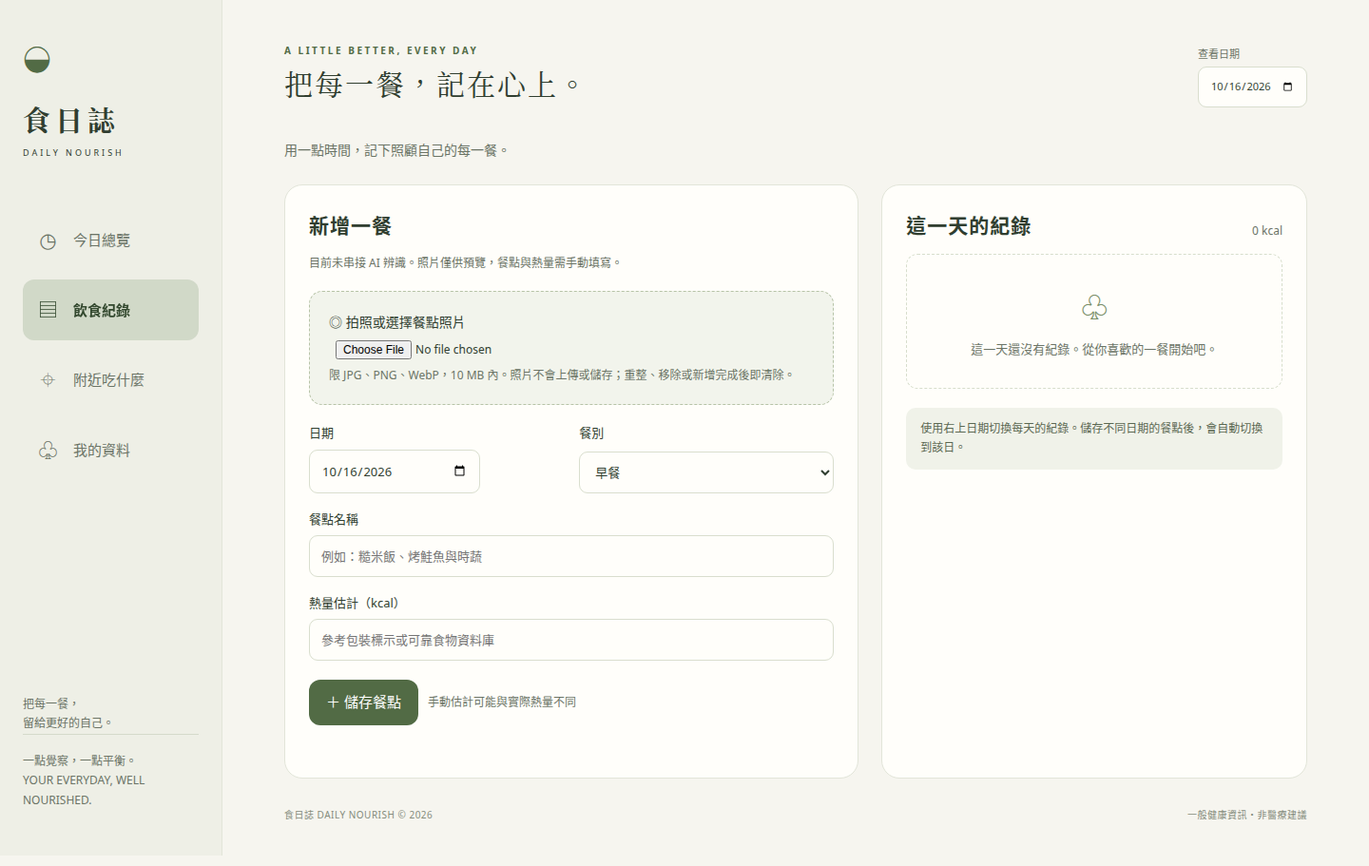
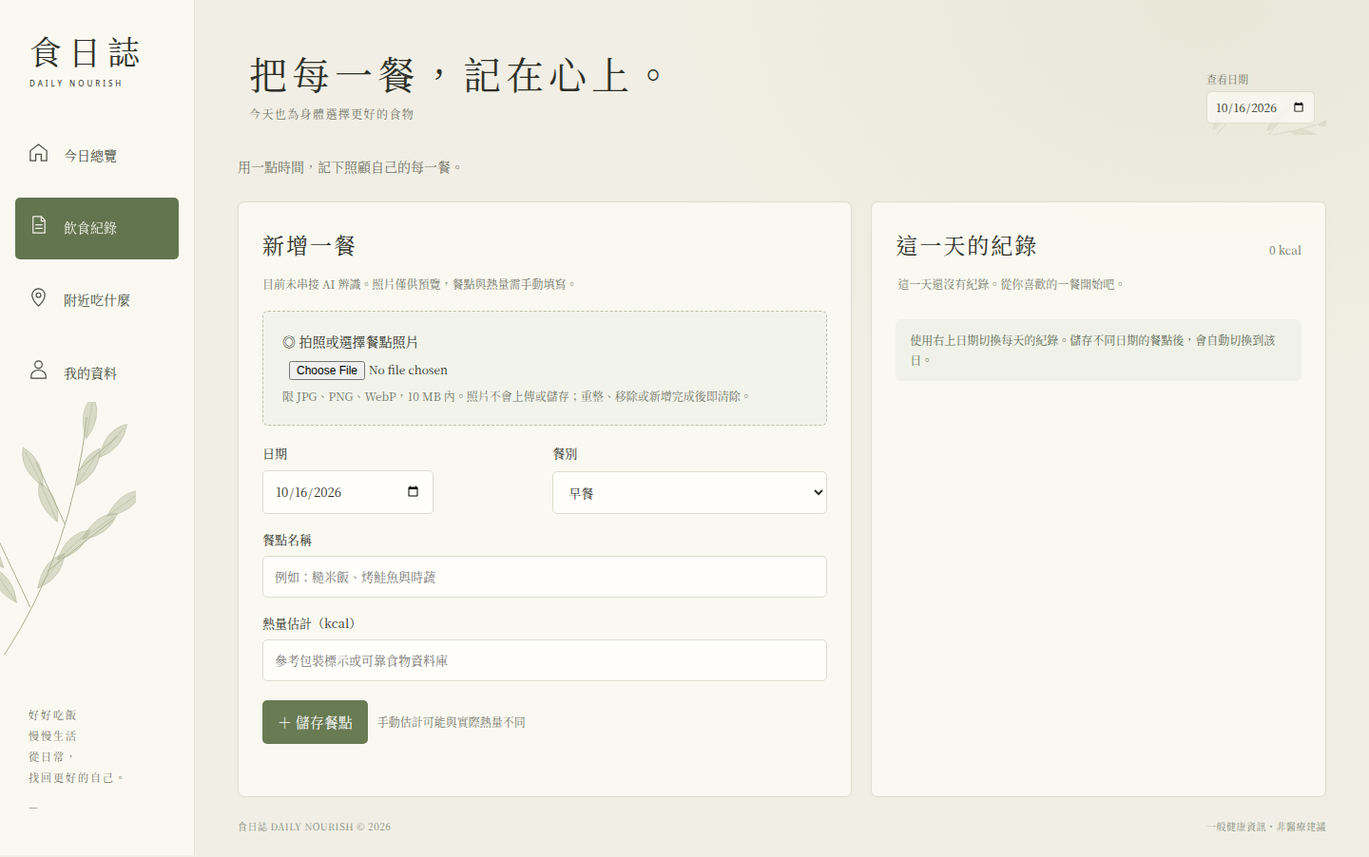
Restore concept-led editorial layout with GPT Image food assets

diff --git a/index.html b/index.html
@@ -3,11 +3,20 @@
 <style>
 :root{--paper:#f6f5ef;--card:#fffefa;--ink:#303e30;--muted:#6b7466;--sage:#dfe7d9;--green:#526b45;--line:#e2e5d9;--orange:#c27b4a}*{box-sizing:border-box}body{margin:0;background:var(--paper);color:var(--ink);font:15px/1.7 system-ui,-apple-system,"Noto Sans TC",sans-serif}button,input,select{font:inherit}button,a,input,select{ -webkit-tap-highlight-color:transparent}button{cursor:pointer}button:focus-visible,a:focus-visible,input:focus-visible,select:focus-visible{outline:3px solid #b18046;outline-offset:3px}button{border:0;border-radius:12px;padding:11px 18px;background:var(--green);color:white}button:hover{filter:brightness(.95)}.secondary{background:#edf0e6;color:var(--ink)}.danger{background:#f4e8df;color:#86482c}.side{position:fixed;inset:0 auto 0 0;width:234px;background:#eeefe6;padding:36px 24px;border-right:1px solid var(--line);display:flex;flex-direction:column}.brand{font-family:serif;font-size:29px;letter-spacing:5px;font-weight:600}.brand small{display:block;font:9px/2.5 system-ui;letter-spacing:3px}.brandmark{display:inline-block;margin-bottom:14px;color:var(--green);font-size:30px}nav{display:grid;gap:10px;margin-top:48px}nav button{text-align:left;background:transparent;color:var(--muted);padding:14px;display:flex;gap:14px;align-items:center}nav button.active{background:#dce4d3;color:#354c30;font-weight:650}nav b{font-size:21px;font-weight:400;width:25px;text-align:center}.sidefoot{margin-top:auto;font-size:12px;color:var(--muted)}.sidefoot p{border-top:1px solid #d5dacb;padding-top:18px}main{max-width:1510px;margin-left:234px;padding:36px 48px 28px}header{display:flex;justify-content:space-between;gap:16px;align-items:center;margin-bottom:30px}.eyebrow{font-size:10px;letter-spacing:2.5px;color:var(--green);font-weight:650}h1,h2,h3,p{margin-top:0}h1{font-family:serif;font-weight:500;font-size:30px;margin-bottom:3px;letter-spacing:2px}h2{font-size:21px;font-weight:550;letter-spacing:1px;margin-bottom:12px}h3{font-size:16px;font-weight:600;margin-bottom:8px}.muted{color:var(--muted)}.small{font-size:12px}.datebox{display:grid;gap:3px;font-size:11px;color:var(--muted)}input,select{width:100%;border:1px solid #d9dece;background:#fffefa;color:var(--ink);border-radius:9px;padding:10px 12px;min-width:0}input[type=date]{max-width:180px}.hero{background:#e2e8d9;border-radius:22px;min-height:265px;padding:36px 36px;position:relative;overflow:hidden;display:grid;grid-template-columns:1.15fr 1fr;align-items:center;margin-bottom:25px}.hero h2{font-family:serif;font-size:34px;line-height:1.5;font-weight:500;letter-spacing:3px;margin:12px 0}.hero p{color:#5e6d56;font-size:13px;max-width:360px}.hero svg{width:100%;max-height:245px;filter:drop-shadow(0 9px 12px #7d896324)}.hero .number{position:absolute;right:23px;top:18px;font:italic 12px serif;color:#738267}.grid{display:grid;grid-template-columns:1.35fr 1fr;gap:24px}.card{background:var(--card);border:1px solid var(--line);border-radius:19px;padding:25px}.cardhead{display:flex;justify-content:space-between;gap:10px;align-items:center}.textbtn{padding:3px 0;background:transparent;color:var(--green);font-size:12px}.energy{display:flex;gap:30px;align-items:center;margin:22px 0}.ring{width:136px;height:136px;flex-shrink:0;border:10px solid #e5eadc;border-radius:50%;display:flex;flex-direction:column;align-items:center;justify-content:center}.ring strong{font-size:30px;font-weight:500;line-height:1.3}.ring span{font-size:10px;color:var(--muted)}.stats{display:grid;gap:12px}.stats strong{font-size:23px;font-weight:500}.stats span{display:block;font-size:11px;color:var(--muted)}.note{background:#f0f2e9;border-radius:10px;padding:12px 15px;font-size:12px;color:#5b6852}.sectiontitle{display:flex;justify-content:space-between;align-items:center;margin:26px 0 14px}.sectiontitle h2{margin:0}.empty{text-align:center;padding:30px 16px;border:1px dashed #d7decc;border-radius:12px;color:var(--muted);font-size:13px}.empty .sprout{font-size:29px;display:block;color:#7a8e68;margin-bottom:8px}.meal{display:flex;gap:14px;align-items:center;padding:15px 0;border-bottom:1px solid var(--line);overflow-wrap:anywhere}.meal:last-child{border-bottom:0}.mealicon{width:42px;height:42px;display:grid;place-items:center;background:#edf0e5;border-radius:12px;flex-shrink:0;color:#6a8059}.mealbody{flex:1;min-width:0}.mealbody strong{font-weight:550}.mealbody small{display:block;color:var(--muted);font-size:11px}.meal button{background:transparent;color:#93624b;padding:8px;font-size:12px}.meal .kcal{font-size:14px;white-space:nowrap}.tip{margin-top:24px;padding-top:18px;border-top:1px solid var(--line)}.tip p{font-size:13px;color:var(--muted);margin:0}.tiplabel{color:var(--orange);font-size:10px;letter-spacing:2px}.plate{width:130px;height:130px;border:9px solid #f0eee3;border-radius:50%;margin:22px auto;background:conic-gradient(#9eaf81 0 50%,#d1b28b 50% 75%,#e7d7a9 75%);transform:rotate(-90deg);box-shadow:0 0 0 1px #e3dfd1}.legend{display:flex;gap:10px;flex-wrap:wrap;justify-content:center;font-size:11px}.legend i{display:inline-block;width:8px;height:8px;border-radius:50%;margin-right:4px}.fields{display:grid;grid-template-columns:1fr 1fr;gap:16px}.fields label,.field{display:grid;gap:6px;font-size:13px}.full{grid-column:1/-1}.formactions{display:flex;gap:10px;align-items:center;margin-top:20px;flex-wrap:wrap}.upload{border:1px dashed #b7c3a7;background:#f2f4ec;border-radius:14px;padding:20px;margin:18px 0}.upload input{padding:7px;font-size:12px;background:transparent;border:0}.upload label{display:block;font-size:14px}.preview{display:block;max-width:100%;max-height:220px;border-radius:10px;margin:15px auto;object-fit:contain}.alert{color:#8b442d;font-size:13px}.result{margin-top:22px;display:grid;grid-template-columns:1fr 1fr;gap:15px}.result>div{background:#eef1e7;padding:18px;border-radius:12px}.result strong{font-size:28px;font-weight:500;display:block}.privacy{font-size:12px;color:var(--muted);margin-top:25px;border-top:1px solid var(--line);padding-top:20px}.mapart{height:175px;position:relative;background:repeating-linear-gradient(25deg,transparent 0 40px,#fafaf3 40px 52px,transparent 52px 94px),repeating-linear-gradient(110deg,#e4e9da 0 65px,#fffef7 65px 77px,#e4e9da 77px 110px);border-radius:14px;display:grid;place-items:center;margin-bottom:22px}.pin{width:55px;height:55px;background:#526b45;color:white;border:6px solid #fffef4;border-radius:50%;display:grid;place-items:center;font-size:22px;box-shadow:0 5px 18px #526b4533}.mapart small{position:absolute;bottom:8px;right:10px;color:#5d6b55;background:#fffefa;padding:1px 8px;border-radius:5px;font-size:10px}a.maplink{display:inline-block;text-decoration:none;background:var(--green);color:white;padding:11px 18px;border-radius:12px;margin-top:18px}.checklist{padding-left:20px;font-size:14px;line-height:2}.status{font-size:12px;color:var(--green);min-height:20px;margin-top:10px}footer{color:#858c7d;font-size:10px;display:flex;justify-content:space-between;gap:12px;margin-top:30px;letter-spacing:.5px}[hidden]{display:none!important}#storageWarning{background:#f3e5d5;border:1px solid #d5b18d;border-radius:10px;padding:12px;margin-bottom:20px;font-size:13px}.pageintro{margin-bottom:24px;font-size:14px;color:var(--muted)}@media(min-width:1400px){main{padding:45px 65px}.hero{min-height:300px}}@media(max-width:1100px){main{padding:30px 26px}.side{width:200px;padding:30px 18px}main{margin-left:200px}.energy{gap:18px}.ring{width:115px;height:115px}.hero{padding:28px}.hero h2{font-size:28px}.grid{gap:18px}.card{padding:20px}}@media(max-width:800px){.side{width:100%;height:70px;inset:auto 0 0;padding:0;background:#f7f8eff5;z-index:10;border-top:1px solid var(--line);border-right:0;backdrop-filter:blur(15px)}.brand,.sidefoot{display:none}nav{margin:0;display:flex;gap:0;justify-content:space-around;height:100%}nav button{border-radius:0;flex:1;flex-direction:column;gap:0;font-size:10px;padding:8px 0}nav b{font-size:20px;line-height:1.3}main{margin:0;padding:24px 20px 95px}.grid{grid-template-columns:1fr}.hero{grid-template-columns:1.2fr 1fr;padding:24px;min-height:220px}.hero h2{font-size:26px}.hero p{font-size:12px}.hero svg{min-width:0}h1{font-size:26px}header{margin-bottom:22px}.datebox{max-width:145px}.datebox input{font-size:12px;padding:8px}.card{padding:23px}.energy{gap:30px}.ring{width:136px;height:136px}.privacy{margin-top:20px}footer{font-size:9px}.fields{gap:13px}}@media(max-width:420px){main{padding-left:16px;padding-right:16px}.hero{padding:22px;grid-template-columns:1fr}.hero svg{position:absolute;right:-35px;bottom:-15px;width:180px;opacity:.45}.hero>div{position:relative;z-index:1}.hero p{max-width:220px}.hero h2{font-size:27px}.fields{grid-template-columns:1fr}.full{grid-column:auto}.card{padding:20px}.ring{width:120px;height:120px}.energy{gap:22px}.result{gap:10px}.result strong{font-size:24px}}
 @media(max-width:600px){header{display:grid;grid-template-columns:1fr;gap:12px}header h1{font-size:25px}.datebox{display:flex;align-items:center;gap:10px;max-width:none}.datebox input{width:150px}.side{height:calc(70px + env(safe-area-inset-bottom));padding-bottom:env(safe-area-inset-bottom)}main{padding-bottom:calc(95px + env(safe-area-inset-bottom))}}
-</style></head><body>
-<aside class="side"><div class="brand"><span class="brandmark">◒</span><br>食日誌<small>DAILY NOURISH</small></div><nav aria-label="主要導覽"><button class="active" data-page="today" aria-current="page"><b aria-hidden="true">◷</b>今日總覽</button><button data-page="diary"><b aria-hidden="true">▤</b>飲食紀錄</button><button data-page="nearby"><b aria-hidden="true">⌖</b>附近吃什麼</button><button data-page="profile"><b aria-hidden="true">♧</b>我的資料</button></nav><div class="sidefoot">把每一餐，<br>留給更好的自己。<p>一點覺察，一點平衡。<br>YOUR EVERYDAY, WELL NOURISHED.</p></div></aside>
-<main><header><div><div class="eyebrow">A LITTLE BETTER, EVERY DAY</div><h1 id="pageTitle">今天，也好好吃飯。</h1></div><label class="datebox">查看日期<input type="date" id="viewDate" required aria-label="查看日期"></label></header><div id="storageWarning" role="alert" hidden></div>
-<section id="today" aria-label="今日總覽"><div class="hero"><span class="number">THE DAILY RITUAL / 01</span><div><div class="eyebrow">吃得剛好，生活更好</div><h2>照顧自己，<br>從好好吃一餐開始。</h2><p>不追求完美的數字，練習看見身體的需要。<br>為日常，留一點健康的餘裕。</p><button data-page="diary">＋ 記錄這一餐</button></div><svg viewBox="0 0 360 270" role="img" aria-label="蔬菜、全穀與蛋白質組成的均衡餐盤插畫"><defs><radialGradient id="dish"><stop stop-color="#fffdf5"/><stop offset=".8" stop-color="#faf8ef"/><stop offset="1" stop-color="#e6e5d7"/></radialGradient></defs><ellipse cx="186" cy="149" rx="116" ry="107" fill="#bdc7ad" opacity=".35"/><circle cx="180" cy="135" r="113" fill="url(#dish)"/><circle cx="180" cy="135" r="93" fill="#f0eedf" stroke="#d9dcca"/><g fill="#7d965c"><ellipse cx="130" cy="92" rx="32" ry="21" transform="rotate(-35 130 92)"/><ellipse cx="109" cy="126" rx="24" ry="35" transform="rotate(-24 109 126)"/><ellipse cx="142" cy="126" rx="27" ry="31"/><ellipse cx="119" cy="158" rx="25" ry="22"/></g><g fill="#a0b477"><ellipse cx="151" cy="76" rx="22" ry="18"/><ellipse cx="98" cy="106" rx="20" ry="18"/><ellipse cx="149" cy="152" rx="25" ry="21"/></g><g stroke="#c3d2a4" fill="none" stroke-width="2"><path d="M101 107l46 29m-21-50 21 50m-28 24 28-24"/></g><g fill="#c66e48"><circle cx="149" cy="108" r="13"/><circle cx="106" cy="151" r="12"/><circle cx="138" cy="172" r="11"/></g><g fill="#eccb98"><ellipse cx="205" cy="83" rx="22" ry="15" transform="rotate(30 205 83)"/><ellipse cx="230" cy="104" rx="24" ry="15" transform="rotate(30 230 104)"/><ellipse cx="242" cy="132" rx="23" ry="15" transform="rotate(30 242 132)"/></g><g stroke="#ba8852" stroke-width="3"><path d="M199 72l-7 15m20-9-7 16m24-3-8 17m20-10-8 17m17 6-10 18"/></g><path d="M177 154q30-19 51 5t-1 38q-44 28-63-2t13-41" fill="#dfd1ab"/><g fill="#b8a77f"><ellipse cx="181" cy="166" rx="4" ry="2"/><ellipse cx="194" cy="177" rx="4" ry="2"/><ellipse cx="215" cy="174" rx="4" ry="2"/><ellipse cx="204" cy="194" rx="4" ry="2"/><ellipse cx="178" cy="187" rx="4" ry="2"/><ellipse cx="223" cy="190" rx="4" ry="2"/></g><path d="M302 54v151m-8-151v38q8 14 16 0V54" stroke="#8c9b7b" stroke-width="5" fill="none" stroke-linecap="round"/><path d="M53 55q-20 35 0 55v96" stroke="#8c9b7b" stroke-width="6" fill="none" stroke-linecap="round"/><path d="M260 220q15-28 38-24-7 25-38 24" fill="#94a77d"/></svg></div>
-<div class="grid"><div class="card"><div class="cardhead"><h2>一日飲食概況</h2><button class="textbtn" data-page="profile">設定個人資料 ↗</button></div><div class="energy"><div class="ring"><strong id="dailyTotal">0</strong><span>已記錄 kcal</span></div><div class="stats"><div><strong id="tdeeSmall">—</strong><span>估計每日總消耗 TDEE / kcal</span></div><div><strong id="mealCount">0</strong><span>筆餐點紀錄</span></div></div></div><div class="note">這是已填寫餐點的合計，不代表全天實際攝取。熱量只是參考，不是對一餐的評分。</div><div class="sectiontitle"><h3>餐桌上的日常</h3><button class="textbtn" data-page="diary">查看紀錄 →</button></div><div id="summaryMeals"></div></div><div class="card"><span class="eyebrow">A BALANCED PLATE</span><h2>把均衡，放進餐盤裡。</h2><div class="plate" role="img" aria-label="均衡餐盤示意：二分之一蔬果，四分之一全穀，四分之一蛋白質"></div><div class="legend"><span><i style="background:#9eaf81"></i>½ 蔬菜與水果</span><span><i style="background:#d1b28b"></i>¼ 優質蛋白質</span><span><i style="background:#e7d7a9"></i>¼ 全穀雜糧</span></div><div class="tip"><span class="tiplabel">TODAY’S GENTLE REMINDER</span><h3>多一點原型，少一點匆忙。</h3><p>選擇多樣食材、適量好油與水，依需求搭配乳品或替代品。慢慢吃，也留意飢餓與飽足感。</p></div><p class="small muted" style="margin:16px 0 0">餐盤比例為一般示意，非個人化醫療處方。</p></div></div></section>
+</style><link rel="stylesheet" href="art.css"></head><body>
+<aside class="side"><div class="brand">食日誌<small>DAILY NOURISH</small></div><nav aria-label="主要導覽"><button class="active" data-page="today" aria-current="page"><b aria-hidden="true"><svg viewBox="0 0 24 26"><path d="m3 10 9-7 9 7v11h-6v-7H9v7H3z"/></svg></b>今日總覽</button><button data-page="diary"><b aria-hidden="true"><svg viewBox="0 0 24 26"><path d="M6 3h9l4 4v14H6zM15 3v5h4M9 12h7M9 16h7"/></svg></b>飲食紀錄</button><button data-page="nearby"><b aria-hidden="true"><svg viewBox="0 0 24 26"><path d="M19 10c0 5-7 12-7 12S5 15 5 10a7 7 0 1 1 14 0Z"/><circle cx="12" cy="10" r="2.5"/></svg></b>附近吃什麼</button><button data-page="profile"><b aria-hidden="true"><svg viewBox="0 0 24 26"><circle cx="12" cy="7" r="4"/><path d="M4 22v-3a8 6 0 0 1 16 0v3Z"/></svg></b>我的資料</button></nav><div class="sidefoot">好好吃飯<br>慢慢生活<br>從日常，<br>找回更好的自己。<p>—</p></div></aside>
+<main><div class="mobile-brand">食日誌<small>DAILY NOURISH</small></div><header><div><div class="eyebrow">今天也為身體選擇更好的食物</div><h1 id="pageTitle">好好吃飯，<wbr>慢慢生活。</h1></div><label class="datebox">查看日期<input type="date" id="viewDate" required aria-label="查看日期"></label></header><div id="storageWarning" role="alert" hidden></div>
+<section id="today" aria-label="今日總覽">
+<div class="overview-grid"><article class="card energy-card"><div class="cardhead"><h2>今日熱量攝取</h2><button class="textbtn" data-page="profile">設定資料 ›</button></div><div class="energy"><div class="ring"><div><strong id="dailyTotal">0</strong><span id="energyCaption">已記錄 kcal</span></div></div><div class="stats"><div><span>基礎代謝</span><strong id="bmrSmall">—</strong><small>kcal</small></div><div><span>每日所需</span><strong id="tdeeSmall">—</strong><small>kcal</small></div></div></div><p class="energy-note"><span id="mealCount">0</span> 筆紀錄 · 僅計已填寫餐點；BMR / TDEE 為估計值</p></article>
+<article class="card capture-card"><svg class="camera-icon" viewBox="0 0 40 36" aria-hidden="true"><path d="M5 8h8l3-5h9l3 5h7v24H5z"/><circle cx="20" cy="20" r="8"/></svg><h2>拍下這一餐</h2><p>記錄飲食，讓每一餐都成為更好的選擇。</p><button id="startPhoto" data-page="diary">上傳飲食照片</button><small>僅本機預覽 · 餐點與熱量手動填寫</small></article></div>
+<div class="sectiontitle"><h2>飲食紀錄</h2><span class="rule"></span><button class="textbtn" data-page="diary">查看全部 ›</button></div><div id="summaryMeals"></div>
+<div class="inspiration-label">餐桌靈感 <span>AI 生成示意・不是你的飲食紀錄</span></div><div class="food-grid">
+<article class="food-card"><img src="assets/grain-bowl.webp" alt="AI 生成示意：藜麥、半熟蛋、酪梨與蔬菜碗" width="600" height="600"><div><h3>早餐靈感</h3><p>藜麥蔬菜碗 · 水煮蛋 · 酪梨</p></div></article>
+<article class="food-card"><img src="assets/tofu.webp" alt="AI 生成示意：豆腐、季節蔬菜與糙米飯" width="600" height="600"><div><h3>午餐靈感</h3><p>板豆腐 · 季節時蔬 · 糙米</p></div></article>
+<article class="food-card"><img src="assets/chicken.webp" alt="AI 生成示意：香煎雞胸、南瓜與花椰菜" width="600" height="600"><div><h3>晚餐靈感</h3><p>香煎雞胸 · 南瓜 · 花椰菜</p></div></article>
+<article class="food-card extra-food"><img src="assets/oats.webp" alt="AI 生成示意：香蕉藍莓燕麥碗" width="600" height="600" loading="lazy"><div><h3>點心靈感</h3><p>燕麥 · 藍莓 · 香蕉與堅果</p></div></article></div>
+<div class="sectiontitle"><h2>附近吃什麼</h2><span class="rule"></span><button class="textbtn" data-page="nearby">探索附近 ›</button></div><div class="nearby-preview"><article class="nearby-choice"><span class="line-icon">⌖</span><div><h3>找一份清爽</h3><p>蔬菜、全穀與蛋白質，<br>找到喜歡的均衡搭配。</p><button class="textbtn" data-page="nearby">搜尋健康餐 ›</button></div></article><article class="nearby-choice"><span class="line-icon">♧</span><div><h3>吃一點日常</h3><p>家常便當、蔬食料理，<br>依你的位置慢慢找。</p><button class="textbtn" data-page="nearby">選擇地點與餐飲 ›</button></div></article><button class="mapart preview-map" data-page="nearby" aria-label="設定地點並搜尋真實餐廳"><span class="pin">⌖</span><small>示意地圖・非即時店家</small></button></div>
+<p class="overview-disclaimer">餐點圖片為 AI 生成靈感，不提供營養辨識；店家資訊請至 Google 地圖查詢。</p></section>
 <section id="diary" hidden aria-label="飲食紀錄"><p class="pageintro">用一點時間，記下照顧自己的每一餐。</p><div class="grid"><div class="card"><h2>新增一餐</h2><p class="small muted">目前未串接 AI 辨識。照片僅供預覽，餐點與熱量需手動填寫。</p><form id="mealForm"><div class="upload"><label for="photo">◎ 拍照或選擇餐點照片</label><input id="photo" type="file" accept="image/jpeg,image/png,image/webp" capture="environment"><img id="photoPreview" class="preview" alt="本次餐點照片預覽" hidden><button id="removePhoto" type="button" class="textbtn" hidden>移除照片</button><div class="small muted">限 JPG、PNG、WebP，10 MB 內。照片不會上傳或儲存；重整、移除或新增完成後即清除。</div><div id="photoError" class="alert" role="alert"></div></div><div class="fields"><label>日期<input type="date" id="mealDate" required></label><label>餐別<select id="mealType"><option>早餐</option><option>午餐</option><option>晚餐</option><option>點心</option></select></label><label class="full">餐點名稱<input id="mealName" maxlength="80" placeholder="例如：糙米飯、烤鮭魚與時蔬" required></label><label class="full">熱量估計（kcal）<input id="mealCalories" type="number" min="0" max="10000" step="1" placeholder="參考包裝標示或可靠食物資料庫" required></label></div><div class="formactions"><button type="submit">＋ 儲存餐點</button><span class="small muted">手動估計可能與實際熱量不同</span></div><div id="mealStatus" class="status" role="status"></div></form></div><div class="card"><div class="cardhead"><h2>這一天的紀錄</h2><span class="small muted" id="diaryTotal"></span></div><div id="diaryMeals"></div><div class="note" style="margin-top:20px">使用右上日期切換每天的紀錄。儲存不同日期的餐點後，會自動切換到該日。</div></div></div></section>
 <section id="nearby" hidden aria-label="附近吃什麼"><p class="pageintro">找一餐喜歡的，也為身體多想一點。</p><div class="grid"><div class="card"><div class="mapart" aria-hidden="true"><span class="pin">⌖</span><small>概念插畫・非即時地圖</small></div><h2>下一餐，從這裡找起。</h2><p class="small muted">本頁不提供即時店家或距離。設定條件後，前往 Google 地圖查看真實搜尋結果。</p><label class="field">想吃什麼<select id="foodType"><option value="健康餐">健康餐</option><option value="蔬食餐廳">蔬食</option><option value="自助餐">自助餐</option><option value="地中海料理">地中海料理</option><option value="便當">家常便當</option></select></label><label class="field" style="margin-top:16px">地點或區域<input id="locationText" maxlength="120" placeholder="例如：台北市大安區、台中車站"></label><div class="formactions"><button id="locate" type="button" class="secondary">⌖ 同意取得目前位置</button></div><div id="locationStatus" class="status" role="status">不會自動取得定位；也可直接輸入地點。</div><a id="mapLink" class="maplink" href="https://www.google.com/maps/search/?api=1&amp;query=%E5%81%A5%E5%BA%B7%E9%A4%90" target="_blank" rel="noopener noreferrer">前往 Google 地圖搜尋 ↗</a><p class="small muted" style="margin:14px 0 0">點擊搜尋會將地點文字或定位座標及餐飲種類傳送給 Google，適用其隱私政策。定位只用於本次搜尋，不寫入本機儲存。直接開啟 HTML 可能無法定位；正式使用需 HTTPS 與瀏覽器授權。</p></div><div class="card"><span class="eyebrow">EAT OUT, FEEL GOOD</span><h2>外食也有，剛好的選擇。</h2><ul class="checklist"><li>挑選有蔬菜、主食與蛋白質的組合。</li><li>醬汁分開放，自己決定喜歡的量。</li><li>在炸物之外，也試試蒸、烤或燉。</li><li>以水或無糖飲品搭配，慢慢享用。</li></ul><div class="note">店家菜單、營業時間與過敏原資訊，請向店家確認。搜尋結果不代表營養品質保證。</div></div></div></section>
 <section id="profile" hidden aria-label="我的資料"><p class="pageintro">認識身體的基本需要，不把自己縮成一個數字。</p><div class="grid"><div class="card"><h2>你的日常，專屬參考</h2><p class="small muted">適用 18–100 歲一般成人。孕哺期、運動員或有疾病等特殊需求者，請諮詢醫師或營養師。</p><form id="profileForm"><div class="fields"><label>年齡（歲）<input id="age" type="number" min="18" max="100" step="1" required placeholder="18–100"></label><label>公式使用的生理性別<select id="sex" required><option value="">請選擇</option><option value="male">男性（+5）</option><option value="female">女性（−161）</option></select></label><label>身高（cm）<input id="height" type="number" min="100" max="250" step="0.1" required placeholder="100–250"></label><label>體重（kg）<input id="weight" type="number" min="25" max="350" step="0.1" required placeholder="25–350"></label><label class="full">平時活動量<select id="activity"><option value="1.2">久坐為主，較少運動 × 1.2</option><option value="1.375">輕度活動，每週運動 1–3 天 × 1.375</option><option value="1.55">中度活動，每週運動 3–5 天 × 1.55</option><option value="1.725">高度活動，每週運動 6–7 天 × 1.725</option><option value="1.9">體力工作搭配高強度訓練 × 1.9</option></select></label></div><p class="small muted" style="margin:15px 0">此公式只有兩種性別常數，未必適合所有人的生理狀況；可與專業人員討論更合適的評估。</p><button type="submit">儲存並計算參考值</button><div id="profileStatus" class="status" role="status"></div></form><div id="profileResults" class="result" hidden><div><span class="small">基礎代謝 BMR</span><strong id="bmrResult"></strong><span class="small muted">kcal / 日</span></div><div><span class="small">每日總消耗 TDEE</span><strong id="tdeeResult"></strong><span class="small muted">kcal / 日</span></div></div></div><div class="card"><span class="eyebrow">UNDERSTAND, NOT RESTRICT</span><h2>兩個數字，不同的意思。</h2><h3>基礎代謝 BMR</h3><p class="muted small">身體在休息狀態維持基本生理功能所需的估計能量，不是每日建議攝取上限或減重目標。</p><h3>每日總消耗 TDEE</h3><p class="muted small">BMR 乘以活動係數，粗估整天的能量消耗，包含日常活動。個人實際需求會有差異。</p><div class="note">Mifflin–St Jeor 公式<br>BMR = 10 × 體重(kg) + 6.25 × 身高(cm) − 5 × 年齡 + 性別常數。<br>TDEE = BMR × 活動係數。</div><div class="privacy"><h3>你的資料，留在你的裝置。</h3><p>本網站不含追蹤、雲端帳號或後端服務。個人資料與餐點文字只存於此瀏覽器的 localStorage；照片僅暫時預覽。共用裝置的其他使用者可能看到資料。</p><p>不會跨裝置同步。無痕模式、清除瀏覽資料、換瀏覽器或移動 HTML 檔案，可能使資料無法保留。本機檔案儲存行為依瀏覽器而異。</p><button id="clearAll" type="button" class="danger">清除全部本機資料</button><div id="clearStatus" class="status" role="status"></div></div></div></div></section>
@@ -24,11 +33,11 @@ function storageWarn(message){$('storageWarning').hidden=false;$('storageWarning
 try{const raw=localStorage.getItem(KEY);if(raw){const data=JSON.parse(raw);if(!data||!Array.isArray(data.meals)||!(data.profile===null||validProfile(data.profile))||!data.meals.every(validMeal))throw Error('invalid');state={profile:data.profile,meals:data.meals}}}catch(e){storageWarn('無法讀取本機資料，或資料格式已損壞。目前使用空白暫存；新資料儲存時可能覆寫舊資料。請勿將此頁當作唯一備份。')}
 function persist(){try{localStorage.setItem(KEY,JSON.stringify(state));$('storageWarning').hidden=true;return true}catch(e){storageWarn('此瀏覽器無法儲存資料或空間不足。本次變更只暫存在記憶體，關閉或重整將遺失。');return false}}
 function calculate(p){const bmr=10*p.weight+6.25*p.height-5*p.age+(p.sex==='male'?5:-161);return {bmr,tdee:bmr*p.activity}}
-function navigate(page){if(!['today','diary','nearby','profile'].includes(page))return;for(const id of ['today','diary','nearby','profile'])$(id).hidden=id!==page;document.querySelectorAll('nav button').forEach(b=>{b.classList.toggle('active',b.dataset.page===page);if(b.dataset.page===page)b.setAttribute('aria-current','page');else b.removeAttribute('aria-current')});$('pageTitle').textContent={today:'今天，也好好吃飯。',diary:'把每一餐，記在心上。',nearby:'好好吃，不必走太遠。',profile:'更認識，自己的需要。'}[page];window.scrollTo({top:0,behavior:'instant'})}
+function navigate(page){if(!['today','diary','nearby','profile'].includes(page))return;for(const id of ['today','diary','nearby','profile'])$(id).hidden=id!==page;document.querySelectorAll('nav button').forEach(b=>{b.classList.toggle('active',b.dataset.page===page);if(b.dataset.page===page)b.setAttribute('aria-current','page');else b.removeAttribute('aria-current')});$('pageTitle').innerHTML={today:'好好吃飯，<wbr>慢慢生活。',diary:'把每一餐，記在心上。',nearby:'好好吃，不必走太遠。',profile:'更認識，自己的需要。'}[page];window.scrollTo({top:0,behavior:'instant'})}
 document.querySelectorAll('[data-page]').forEach(b=>b.addEventListener('click',()=>navigate(b.dataset.page)));
 $('viewDate').value=today();$('mealDate').value=today();for(const id of ['viewDate','mealDate']){$(id).min='1900-01-01';$(id).max='2100-12-31'}
-function drawMeals(container,meals,deletable){container.replaceChildren();if(!meals.length){const e=document.createElement('div');e.className='empty';const s=document.createElement('span');s.className='sprout';s.textContent='♧';e.append(s,document.createTextNode('這一天還沒有紀錄。從你喜歡的一餐開始吧。'));container.append(e);return}meals.forEach(m=>{const row=document.createElement('div');row.className='meal';const icon=document.createElement('span');icon.className='mealicon';icon.textContent='◒';icon.setAttribute('aria-hidden','true');const body=document.createElement('div');body.className='mealbody';const title=document.createElement('strong');title.textContent=m.name;const detail=document.createElement('small');detail.textContent=m.type+' · '+m.date;body.append(title,detail);const kcal=document.createElement('span');kcal.className='kcal';kcal.textContent=m.calories+' kcal';row.append(icon,body,kcal);if(deletable){const b=document.createElement('button');b.type='button';b.textContent='刪除';b.setAttribute('aria-label','刪除餐點：'+m.name);b.onclick=()=>{if(confirm('刪除「'+m.name+'」這筆紀錄？')){state.meals=state.meals.filter(x=>x.id!==m.id);const saved=persist();render();$('mealStatus').textContent=saved?'已刪除餐點。':'已從本次暫存刪除，無法寫入本機。'}};row.append(b)}container.append(row)})}
-function render(){const meals=state.meals.filter(m=>m.date===$('viewDate').value);const total=meals.reduce((s,m)=>s+m.calories,0);$('dailyTotal').textContent=total.toLocaleString();$('mealCount').textContent=meals.length;$('diaryTotal').textContent=total.toLocaleString()+' kcal';drawMeals($('summaryMeals'),meals,false);drawMeals($('diaryMeals'),meals,true);$('profileResults').hidden=!state.profile;if(state.profile){const n=calculate(state.profile);$('bmrResult').textContent=Math.round(n.bmr).toLocaleString();$('tdeeResult').textContent=Math.round(n.tdee).toLocaleString();$('tdeeSmall').textContent=Math.round(n.tdee).toLocaleString()}else $('tdeeSmall').textContent='—'}
+function drawMeals(container,meals,deletable){container.replaceChildren();if(!meals.length){const e=document.createElement('div');e.className='empty';const s=document.createElement('span');s.className='sprout';s.textContent='';e.append(s,document.createTextNode('這一天還沒有紀錄。從你喜歡的一餐開始吧。'));container.append(e);return}meals.forEach(m=>{const row=document.createElement('div');row.className='meal';const icon=document.createElement('span');icon.className='mealicon';icon.textContent='◒';icon.setAttribute('aria-hidden','true');const body=document.createElement('div');body.className='mealbody';const title=document.createElement('strong');title.textContent=m.name;const detail=document.createElement('small');detail.textContent=m.type+' · '+m.date;body.append(title,detail);const kcal=document.createElement('span');kcal.className='kcal';kcal.textContent=m.calories+' kcal';row.append(icon,body,kcal);if(deletable){const b=document.createElement('button');b.type='button';b.textContent='刪除';b.setAttribute('aria-label','刪除餐點：'+m.name);b.onclick=()=>{if(confirm('刪除「'+m.name+'」這筆紀錄？')){state.meals=state.meals.filter(x=>x.id!==m.id);const saved=persist();render();$('mealStatus').textContent=saved?'已刪除餐點。':'已從本次暫存刪除，無法寫入本機。'}};row.append(b)}container.append(row)})}
+function render(){const meals=state.meals.filter(m=>m.date===$('viewDate').value);const total=meals.reduce((s,m)=>s+m.calories,0);$('dailyTotal').textContent=total.toLocaleString();$('mealCount').textContent=meals.length;$('diaryTotal').textContent=total.toLocaleString()+' kcal';drawMeals($('summaryMeals'),meals,false);drawMeals($('diaryMeals'),meals,true);$('profileResults').hidden=!state.profile;if(state.profile){const n=calculate(state.profile);$('bmrResult').textContent=Math.round(n.bmr).toLocaleString();$('bmrSmall').textContent=Math.round(n.bmr).toLocaleString();$('tdeeResult').textContent=Math.round(n.tdee).toLocaleString();$('tdeeSmall').textContent=Math.round(n.tdee).toLocaleString()}else {$('tdeeSmall').textContent='—';$('bmrSmall').textContent='—'};const ratio=state.profile?Math.min(total/calculate(state.profile).tdee,1):0;document.querySelector('.ring').style.setProperty('--progress',Math.round(ratio*360)+'deg');$('energyCaption').textContent=state.profile?'/ '+Math.round(calculate(state.profile).tdee).toLocaleString()+' kcal':'已記錄 kcal'}
 $('viewDate').onchange=()=>{if(!validDate($('viewDate').value))$('viewDate').value=today();$('mealDate').value=$('viewDate').value;render()};
 function clearPhoto(){if(photoURL)URL.revokeObjectURL(photoURL);photoURL=null;$('photoPreview').removeAttribute('src');$('photoPreview').hidden=true;$('removePhoto').hidden=true;$('photo').value='';$('photoError').textContent=''}
 $('removePhoto').onclick=clearPhoto;$('photo').onchange=()=>{const file=$('photo').files[0];clearPhoto();if(!file)return;if(!['image/jpeg','image/png','image/webp'].includes(file.type)||file.size>10*1024*1024){$('photoError').textContent='請選擇 10 MB 內的 JPG、PNG 或 WebP 圖片。';return}photoURL=URL.createObjectURL(file);$('photoPreview').src=photoURL;$('photoPreview').hidden=false;$('removePhoto').hidden=false};$('photoPreview').onerror=()=>{clearPhoto();$('photoError').textContent='無法解讀此圖片，請改用其他 JPG、PNG 或 WebP。'};

diff --git a/art.css b/art.css
@@ -1,0 +1,14 @@
+/* Concept-led editorial skin; functional views retain their original controls. */
+:root{--paper:#f1efe5;--card:#faf9f2;--ink:#2e3028;--muted:#737568;--green:#687b53;--line:#deddd0}
+body{background:radial-gradient(ellipse at 88% 0,#e8e7d8 0,transparent 35%),var(--paper);font-family:"Noto Serif CJK TC","Noto Serif CJK JP","Songti TC","PMingLiU",serif;font-size:15px;color:var(--ink)}
+button,input,select{font-family:inherit}button,input,select,a.maplink{border-radius:5px}button{padding:10px 16px}h1,h2,h3{font-family:inherit;font-weight:500}h1{font-size:40px;letter-spacing:5px;line-height:1.5}h2{font-size:23px;letter-spacing:2px}h3{letter-spacing:1px}.side{width:205px;background:#faf9f1;border-color:#e5e3d7;padding:30px 16px}.brand{padding:0 15px;font-weight:400;font-size:34px;letter-spacing:7px;line-height:1.4}.brand small{font-size:8px;letter-spacing:3px}.side:after{content:"";position:absolute;left:-27px;top:47%;width:180px;height:270px;background:url('assets/botanical.svg') center/contain no-repeat;pointer-events:none;opacity:.8}nav{margin-top:34px;gap:11px}nav button{padding:13px 12px;font-size:14px;color:#454c3d}nav button.active{background:var(--green);color:#fffdf5;font-weight:400}nav b{font-size:23px}.sidefoot{padding:24px 14px 0;line-height:2;letter-spacing:2px;font-size:11px;z-index:1}.sidefoot p{border:0;padding-top:8px}
+main{margin-left:205px;max-width:1500px;padding:32px 36px 22px}header{position:relative;min-height:110px;margin:0 0 22px;align-items:end;padding:8px 12px 12px;isolation:isolate}header:after{content:"";position:absolute;right:-20px;top:-32px;width:230px;height:160px;background:url('assets/botanical.svg') right center/contain no-repeat;transform:rotate(65deg);opacity:.3;z-index:-1}header>div{display:flex;flex-direction:column-reverse}.eyebrow{font-family:inherit;letter-spacing:1.4px;font-size:12px;font-weight:400;color:var(--muted)}.datebox{z-index:1;font-size:11px;flex-shrink:0}.datebox input{background:#faf9f2c9;border:1px solid #dfddce;padding:5px 8px;font-size:12px}.mobile-brand{display:none}.card{border-radius:7px;padding:25px;background:#faf9f2e8;box-shadow:0 2px 8px #7f785006}.grid{gap:20px}.overview-grid{display:grid;grid-template-columns:1.3fr 1fr;gap:12px}.energy-card{padding:18px 23px 12px}.energy-card h2{font-size:17px;letter-spacing:1px;margin:0}.energy{margin:17px 0 11px;gap:26px}.ring{--progress:0deg;border:0;background:conic-gradient(var(--green) var(--progress),#dedfce 0);padding:9px;width:146px;height:146px}.ring>div{width:100%;height:100%;background:var(--card);border-radius:50%;display:flex;align-items:center;justify-content:center;flex-direction:column}.ring strong{font-size:35px;color:#262b22}.ring span{font-size:12px;margin-top:3px}.stats{display:grid;grid-template-columns:1fr 1fr;flex:1;gap:0;align-items:center}.stats>div{border-left:1px solid #e7e4d8;text-align:center;padding:4px 13px}.stats strong{font-size:27px;line-height:1.4;display:block}.stats span{color:var(--ink);font-size:12px;white-space:nowrap}.stats small{display:block;font-size:12px}.energy-note{margin:0;font-size:10px;color:var(--muted);text-align:center;letter-spacing:.1px}.capture-card{background:#f5f3e9;outline:7px solid #faf9f2;outline-offset:-8px;display:flex;flex-direction:column;justify-content:center;align-items:center;position:relative;text-align:center;padding:24px 27px 17px;overflow:hidden}.capture-card:before{content:"";position:absolute;right:-50px;top:-25px;background:url('assets/botanical.svg') center/contain no-repeat;width:145px;height:240px;opacity:.45;pointer-events:none}.capture-card>*{z-index:1}.camera-icon{width:37px;height:34px;stroke:#526044;stroke-width:1.4;fill:none;margin-bottom:10px}.capture-card h2{font-size:20px;margin:0 0 4px}.capture-card p{font-size:12px;color:#616657;margin:0 0 14px}.capture-card button{width:100%;padding:7px}.capture-card small{font-size:10px;color:var(--muted);margin-top:7px}.sectiontitle{gap:19px;margin:23px 2px 12px}.sectiontitle h2{white-space:nowrap;font-size:25px}.rule{height:1px;background:#cccdbd;flex:1}.sectiontitle .textbtn{white-space:nowrap;color:#595f4f}.textbtn{border-radius:0;font-size:12px}.empty{border:0;text-align:left;padding:0 2px 7px;font-size:12px;color:#777b6b}.empty .sprout{display:none}.inspiration-label{font-size:12px;margin:2px 2px 9px;color:#555f49;display:flex;gap:12px;align-items:center}.inspiration-label span{font-size:10px;color:#777b6d}.food-grid{display:grid;grid-template-columns:repeat(3,minmax(0,1fr));gap:10px}.food-card{background:#faf9f2;border:1px solid #e7e4d9;border-radius:7px;overflow:hidden;min-width:0}.food-card img{display:block;width:100%;height:185px;object-fit:cover;object-position:center 47%}.food-card>div{padding:9px 14px 11px}.food-card h3{font-size:17px;margin:0 0 2px}.food-card p{font-size:11px;margin:0;color:#626657}.extra-food{display:none}.nearby-preview{display:grid;grid-template-columns:1fr 1fr 1.45fr;gap:9px}.nearby-choice{background:#faf9f1;padding:18px 13px;display:flex;gap:10px;border:1px solid #e6e3d6;border-radius:6px}.nearby-choice h3{font-size:18px;margin-bottom:7px}.nearby-choice p{font-size:11px;line-height:1.9;color:var(--muted);margin:0 0 8px}.line-icon{font-size:30px;color:#7b8a66}.preview-map{margin:0;height:100%;min-height:155px;border-radius:6px}.mapart .pin{border-width:4px;width:43px;height:43px;font-size:20px}.overview-disclaimer{font-size:10px;color:var(--muted);margin:12px 2px 0}footer{margin-top:22px}.meal{padding:8px 2px}.mealicon{border-radius:4px}.note,.upload,.result>div{border-radius:6px}.pageintro{font-size:14px}.result strong{font-family:Georgia,serif}
+@media(min-width:1400px){main{padding:32px 45px 24px}.food-card img{height:205px}}
+@media(min-width:801px) and (max-width:1150px){.side{width:170px;padding:28px 12px}.brand{font-size:28px;padding:0 10px}nav button{font-size:12px;padding:10px 6px;gap:9px}main{margin-left:170px;padding:20px 25px}h1{font-size:31px;letter-spacing:3px}header{padding-left:5px}.energy-card{padding:17px 15px 12px}.ring{width:120px;height:120px;padding:8px}.energy{gap:12px}.stats>div{padding:4px 9px}.stats strong{font-size:23px}.food-card img{height:155px}.nearby-choice{padding:12px 9px;gap:5px}.line-icon{font-size:22px}.nearby-choice h3{font-size:16px}.capture-card{padding:20px 17px}.capture-card p{font-size:10px}.energy-note{font-size:9px}header .datebox{max-width:145px}}
+@media(max-width:800px){.side{width:100%;height:calc(67px + env(safe-area-inset-bottom));padding:0 0 env(safe-area-inset-bottom);background:#fbfaf3f5}.side:after{display:none}.sidefoot,.brand{display:none}nav{margin:0;gap:0}nav button{padding:8px 0 5px;font-size:10px;gap:0}nav button.active{background:transparent;color:#61744c;font-weight:600}nav b{font-size:22px}main{margin:0;padding:19px 18px 95px}.mobile-brand{display:block;font-size:27px;letter-spacing:4px;line-height:1.2;margin:0 5px 16px}.mobile-brand small{display:block;font:6px/2 system-ui;letter-spacing:2px}header{display:flex;align-items:end;min-height:100px;padding:0 5px 11px;margin-bottom:13px;gap:10px}header:after{top:-35px;right:-8px;width:110px;height:170px;opacity:.5}h1{font-size:32px;max-width:250px;letter-spacing:3px;line-height:1.5;margin:0}.eyebrow{display:none}.datebox{display:grid;gap:2px;max-width:122px;font-size:9px}.datebox input{width:100%;padding:4px;font-size:10px}.overview-grid{grid-template-columns:1fr;gap:12px}.energy-card{padding:16px 20px 13px}.energy-card h2{font-size:17px}.energy{margin:12px 0 9px;display:flex;flex-direction:column;gap:13px}.ring{width:142px;height:142px}.stats{width:100%;padding-top:10px;border-top:1px solid #e4e2d5;gap:0}.stats>div{padding:0 10px}.stats>div:first-child{border:0}.stats strong{font-size:26px;display:inline;margin-right:5px}.stats small{display:inline;font-size:11px}.stats span{font-size:12px;margin-bottom:3px}.energy-note{font-size:9px;margin-top:8px}.capture-card{padding:21px 20px 14px;min-height:194px}.camera-icon{width:33px;height:30px;margin-bottom:6px}.capture-card h2{font-size:20px}.capture-card p{font-size:12px;margin-bottom:10px}.capture-card button{padding:7px}.capture-card small{font-size:9px}.sectiontitle{gap:12px;margin:21px 2px 10px}.sectiontitle h2{font-size:22px}.food-grid{display:flex;overflow-x:auto;gap:10px;padding-bottom:6px;scroll-snap-type:x mandatory}.food-card{flex:0 0 84%;scroll-snap-align:start}.food-card img{height:185px}.food-card>div{padding:9px 12px}.extra-food{display:block}.nearby-preview{grid-template-columns:1fr 1fr}.nearby-choice{padding:14px 11px}.line-icon{display:none}.nearby-choice h3{font-size:17px}.preview-map{grid-column:1/-1;min-height:145px}.grid{grid-template-columns:1fr}.card:not(.energy-card):not(.capture-card){padding:21px}.fields{grid-template-columns:1fr 1fr}.full{grid-column:1/-1}footer{font-size:8px}.overview-disclaimer{font-size:9px}}
+@media(max-width:420px){header{display:block;padding-right:70px;min-height:132px}h1{font-size:31px;max-width:230px}.datebox{display:flex;align-items:center;max-width:none;margin-top:8px;font-size:9px;gap:7px}.datebox input{width:117px;font-size:10px}.fields{grid-template-columns:1fr}.full{grid-column:auto}.inspiration-label{gap:7px;font-size:11px}.inspiration-label span{font-size:9px}.food-card img{height:172px}}
+
+header{overflow:hidden}.overview-grid>*{min-width:0}@media(min-width:801px) and (max-width:950px){.energy{gap:6px}.ring{width:100px;height:100px}.stats>div{padding:4px 5px}.stats strong{font-size:20px}.energy-card{padding:15px 10px}.capture-card p{max-width:190px}}
+
+nav b svg{width:23px;height:25px;stroke:currentColor;fill:none;stroke-width:1.25;stroke-linecap:round;stroke-linejoin:round}
+@media(max-width:420px){header{padding-right:0}header h1{max-width:240px;font-size:31px;word-break:keep-all;overflow-wrap:normal}header h1 wbr{display:block}header:after{right:-30px;width:130px;opacity:.35}}

diff --git a/README.md b/README.md
@@ -1,9 +1,9 @@
 # 食日誌 DAILY NOURISH
 
-單檔繁體中文健康飲食網站。米白與鼠尾草綠、內嵌餐盤 SVG；桌機側欄與手機底欄。無框架、無建置、無外部圖片或字型依賴。
+繁體中文健康飲食靜態網站。依原始概念圖還原米白、橄欖綠、襯線字體、細線與低圓角卡片；桌機側欄與手機底欄。無框架、無建置、無第三方圖片或字型請求。圖片與 CSS 隨網站一起部署。
 
 ## 使用
-直接用現代瀏覽器開啟 index.html。聊天 App 附件預覽器可能不執行 JavaScript，請下載後以完整瀏覽器開啟。正式網站可於取得授權後部署靜態 HTTPS 主機；本次未部署。
+直接用現代瀏覽器開啟 index.html。聊天 App 附件預覽器可能不執行 JavaScript，請下載後以完整瀏覽器開啟。已獲授權公開部署：https://emilyhuang1102.github.io/daily-nourish/ 。GitHub Pages 使用 main 分支根目錄。離線使用須保留 index.html、art.css、assets/ 的相對路徑，不再是單檔。
 
 1. 我的資料：輸入成人年齡、公式性別、身高、體重及活動量，儲存 BMR/TDEE 估計。
 2. 飲食紀錄：可拍攝/選擇照片預覽，**未串接 AI，名稱與熱量須手動輸入**。照片不傳伺服器、不持久儲存，新增完成即清除。拍攝入口行為依手機與瀏覽器而異。
@@ -37,3 +37,15 @@ node test.cjs
 預設使用 Google Chrome channel；若使用其他安裝位置，可設定 CHROME_PATH 為瀏覽器執行檔路徑。測試使用隔離瀏覽器 context，並非使用者真實資料。screenshots/ 存有桌機與手機全頁畫面，重新執行會更新截圖。詳細結果見 TEST-RESULTS.md。
 
 未驗證真實手機相機、實體 GPS、OS 授權 UI、Safari/Firefox 或聊天 App 內嵌預覽器；定位成功與失敗以測試替身驗證，不代表取得真實 GPS。未實際向 Google 傳送位置或開啟外部搜尋。
+
+## 美術素材（2026-10-16）
+- 餐點素材由 **GPT Image 2.5-flare** 生成，來源是已生成的四象限素材圖，本輪未再次生成。
+- 按左上／右上／左下／右下裁成 grain-bowl、oats、chicken、tofu，600×600 WebP（quality 84），四張合計約 312 KiB。
+- 桌機呈現早餐／午餐／晚餐三張，手機可橫向滑動查看四張。明示「AI 生成示意・不是你的飲食紀錄」，不當作照片辨識或使用者餐點。
+- assets/botanical.svg 為自行繪製裝飾；相機與導覽圖標是內嵌線條 SVG。未把整張 mockup 當網頁。
+- 字體優先本機 Noto Serif CJK TC / Songti TC / PMingLiU，無遠端字型下載，實際字形可能隨 OS 不同。
+- 原圖中的茶杯背景、手繪植物細節與餐廳照片未原樣重製；無真實店家資料時，改為真實搜尋入口而非虛構店名、距離或評價。初始攝取 0、BMR/TDEE 未設定為 —；不複製概念圖假數字。
+- 頁首日期為可操作表單，空白紀錄與 AI 示意說明增加少量高度；手機仍採上下卡片和橫滑餐點，而非縮小桌機。
+
+## 部署
+只提交本專案 index.html、art.css、assets/、測試與文件，不將上層 workspace 推送。推送 main 後等待 pages build and deployment 成功，確認公開 HTML、CSS 與每張圖片 HTTP 200。

diff --git a/TEST-RESULTS.md b/TEST-RESULTS.md
@@ -1,19 +1,14 @@
-# 驗證結果
+# 驗證結果 — 2026-10-16 美術整合
 
-日期：2026-10-16。環境：Linux / Google Chrome headless / Playwright，直接以 file:// 載入。
+Chrome / Playwright 實際瀏覽器執行 test.cjs：PASS。
 
-- JavaScript 以 Node vm.Script 語法解析通過。
-- 1440、1024、810、768、390、320 px 六種寬度 × 四區，共 24 組導覽及 document scrollWidth 檢查通過，無水平溢出。
-- 1440 與 390 px 四區皆產生全頁截圖（screenshots/）。人工目視桌機總覽、手機總覽與個人資料；調整手機頁首以避免標題被日期擠壓。
-- 男性 30 歲 / 175 cm / 70 kg：BMR 1648.75，畫面 1,649；久坐 TDEE 1978.5，畫面 1,979。相同女性資料 BMR 1482.75，通過。
-- 未成年年齡、空白餐名、負熱量拒絕；合法資料儲存與 reload 恢復通過。
-- PNG 上傳預覽解碼、儲存後清除預覽通過。
-- 餐點新增、600+200=800 合計、跨日期 300 kcal、重整、刪除取消/確認通過。
-- HTML 注入字串以純文字呈現，未生成 img 元素。
-- 手動位置與餐飲種類正確 URL encode 到 Google Maps Search URL。
-- 定位以測試替身確認按鈕前不呼叫、按下才呼叫、成功座標連結、手動輸入取代定位、定位失敗提示。
-- 清除全部取消/確認、localStorage 移除、損壞 JSON 提示、模擬 quota exception 後保留暫存與警告，皆通過。
-- 測試全程無 pageerror，無外部網路請求（只有 file/blob）。
+- 1440、1024、810、768、390、320px × 4 頁，共 24 組無頁面水平溢出。
+- 8 張桌機／手機全頁截圖；以 view_image 與原始概念圖比對後，修正手機標題斷行、圖示與 1024px 溢出。
+- AI 示意標示、圖片載入、照片入口、BMR 小卡及動態能量環通過新增測試。
+- 男女 BMR / TDEE、無效輸入、照片預覽及清除、餐點新增／加總／日期／重載保存／刪除與取消、XSS 文字處理均通過。
+- 手動地圖搜尋、模擬定位同意／成功／失敗、清除全部與取消、損壞儲存與 quota 失敗提示均通過。
+- 無 JavaScript pageerror；離線測試無外部網路請求。
 
-## 未驗證
-真實 GPS、手機相機與系統權限對話框、外部 Google 地圖結果、Safari/Firefox、聊天 App 預覽器、實體手機與安全區域。本次定位成功/拒絕為模擬，並未取得或傳送真實位置。照片大檔/格式錯誤分支與 localStorage.removeItem 失敗分支有實作，未在自動測試逐項觸發。非全面 WCAG 稽核。
+截圖：screenshots/1440-{today,diary,nearby,profile}.png、screenshots/390-{today,diary,nearby,profile}.png。全頁截圖的固定底欄停留在當時視窗底部，屬瀏覽器 fullPage 捕捉行為。
+
+未測實體 GPS、相機、Safari/Firefox；未傳送真實位置給 Google。AI 圖片不代表真實使用者餐點。與原圖仍有茶杯背景、植物筆觸、餐廳照片及裝置字體差異，詳 README。
